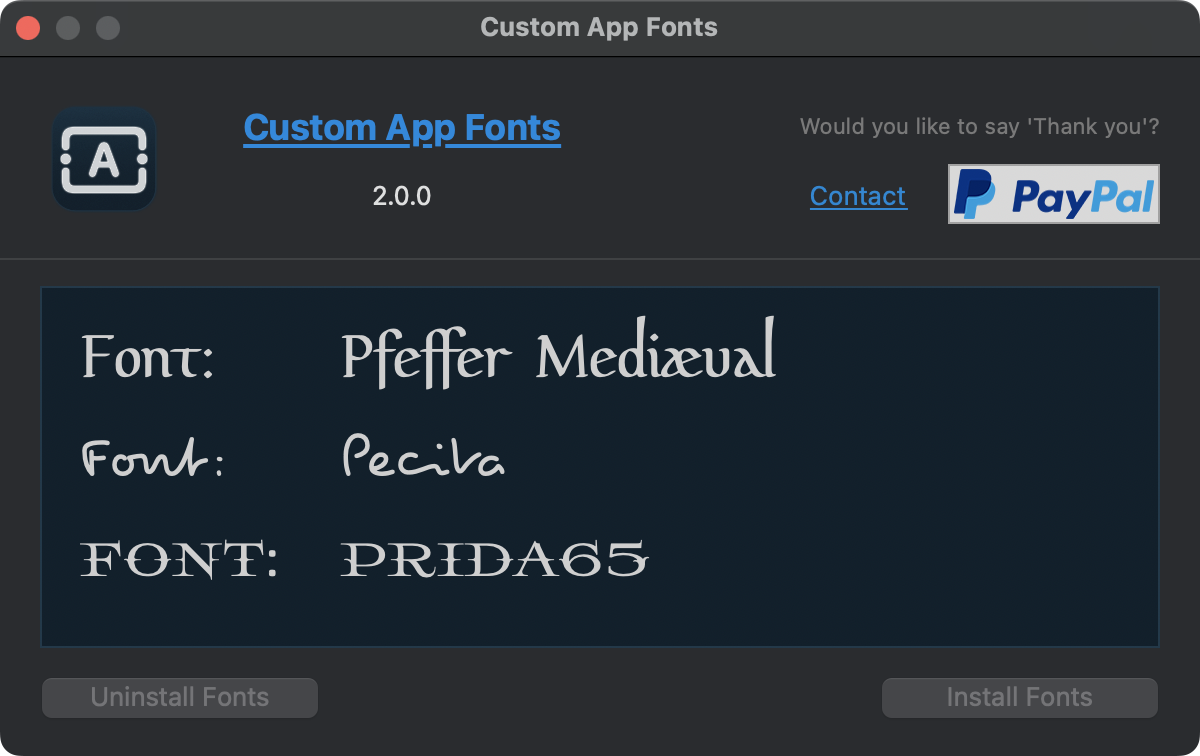
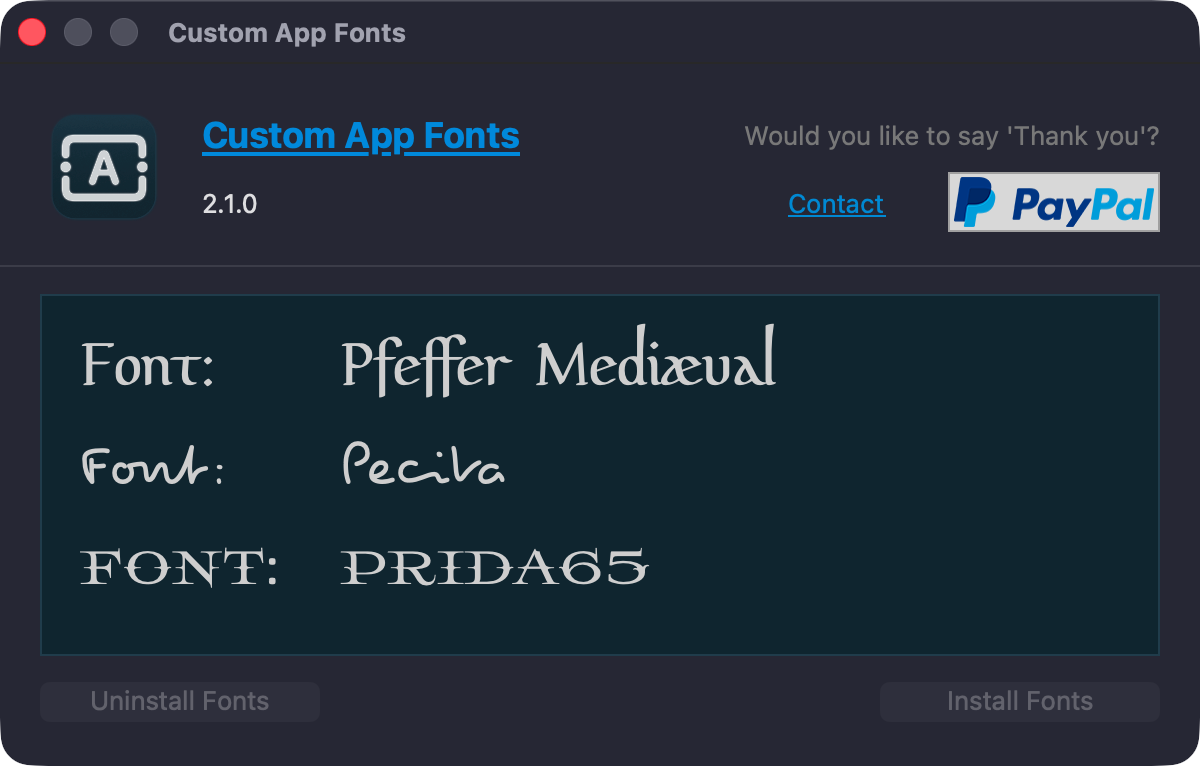
Xojo 2026r1.2 | Maintenance (#8)
* Xojo 2026r1.2

* Xojo2DMG 2.1.0

* AAS CodeSign 2.0.0

* Update Property List

* Version 2.1.0

* Update ScreenShot

diff --git a/README.md b/README.md
@@ -23,12 +23,14 @@ Example application: **Linux**
 [Xojo](https://www.xojo.com/) is a rapid application development for Desktop, Web, Mobile & Raspberry Pi.  
 
 The Desktop application Xojo example project ```CustomAppFonts.xojo_project``` is using:
-- Xojo 2025r2.1
+- Xojo 2026r1.2
 - API 2
 
 ### How to use in your own Xojo project?
 1. **macOS:** [Fonts](./fonts) are being added using
-   - ```Info.plist``` *(see the corresponding project item)* 
+   - Build Settings: macOS
+     - Property List Editor: Add the following key/value (as string)  
+       Key: `ATSApplicationFontsPath`, Value: `AppFonts/`
    - Post-Build ```CopyFiles```-Step
      - Destination: ```Resources Folder```, Sub Directory: ```AppFonts```
 2. **Windows/Linux:** [Fonts](./fonts) are being added using
